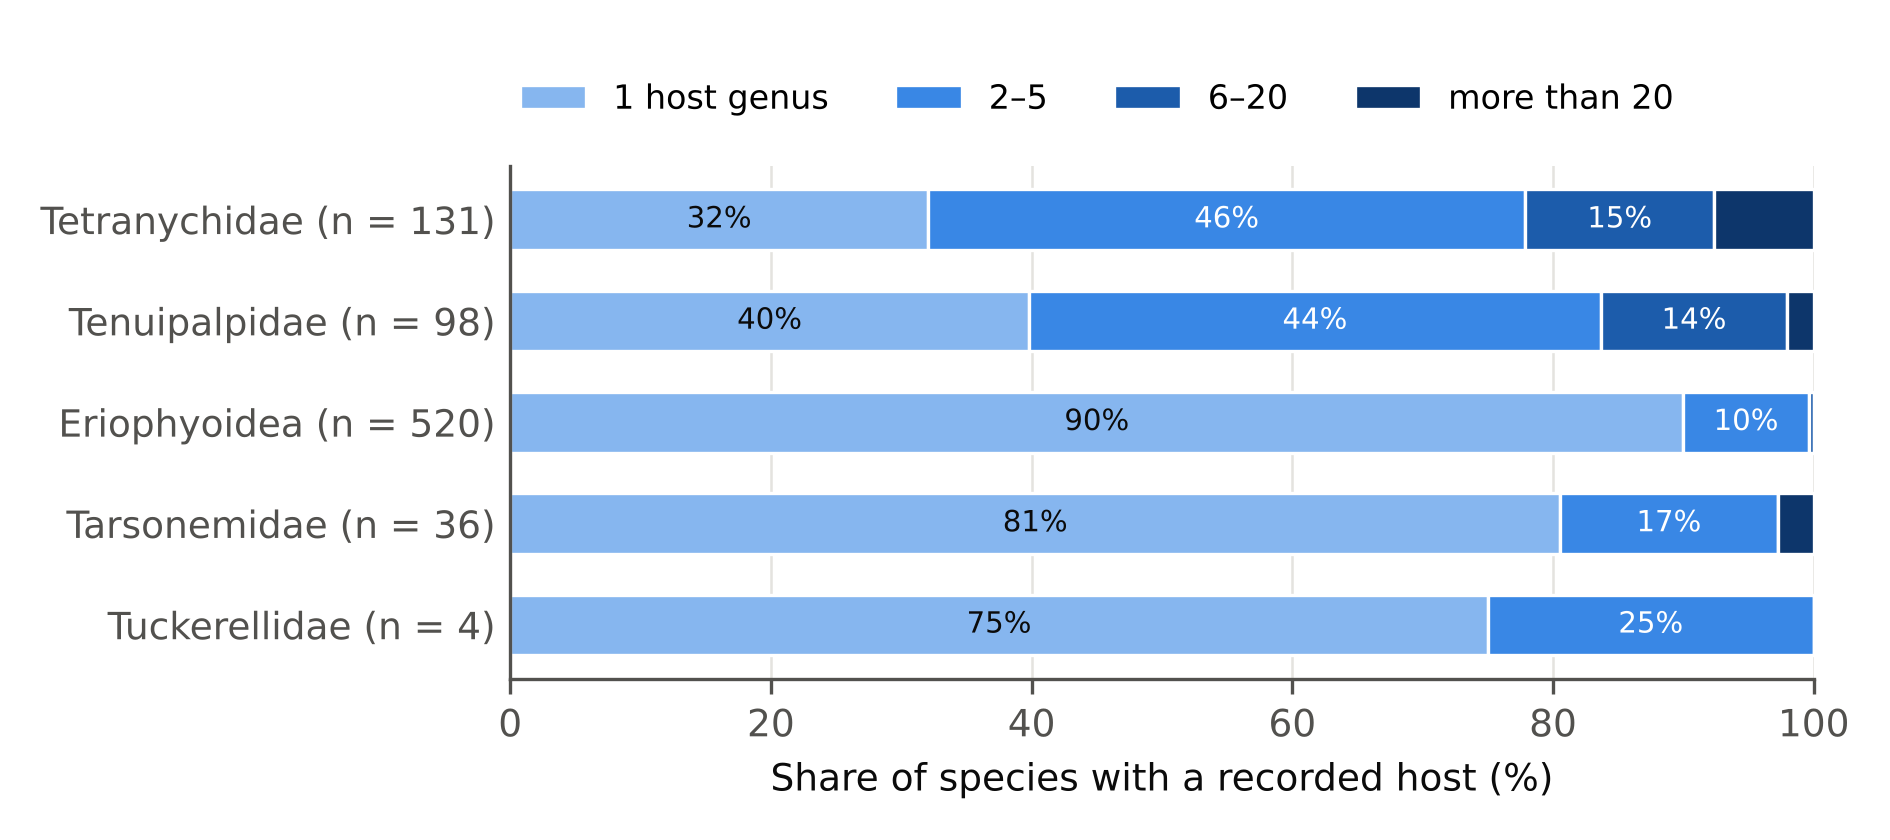
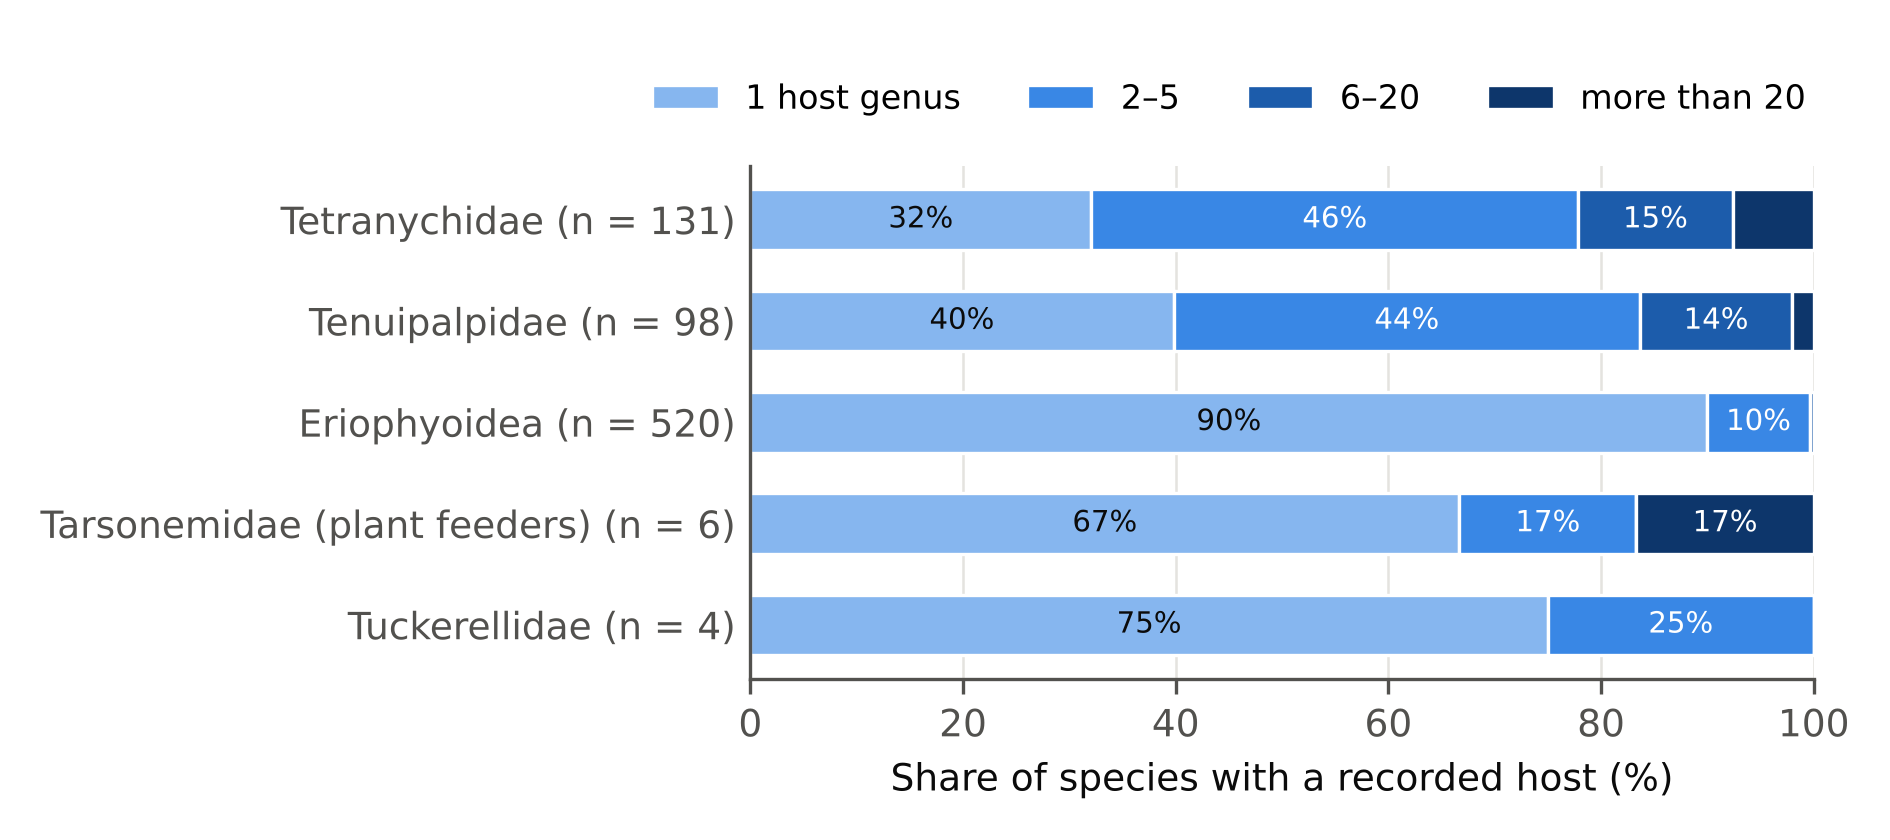
Editorial revision: plant-feeding classification, missing-data rules, year sensitivity
- Checklist pinned at india-agri-mite-coi d739a7a (Eotetranychus neoperplexus 1968).
- Host analyses use plant feeders only: the four plant-feeding families and the
  plant-feeding tarsonemid genera (Polyphagotarsonemus, Steneotarsonemus,
  Phytonemus). The other 35 tarsonemids are reported apart.
- Barcode tests: states with and without the 29 species with no state; host
  genera only among plant feeders with at least one host genus
  (link_barcode_tests.csv).
- Species not in the handbook split by year against its 2022 coverage.
- Decade counts with the low and high values if the other printed years were
  used (when_decade_year_sensitivity.csv).
- Fig. 3 and Fig. 4 redrawn for plant feeders.

Claude-Session: https://claude.ai/code/session_01EwTawd1XLMKrgnGKyjHHUU

diff --git a/scripts/analysis/analyse.py b/scripts/analysis/analyse.py
@@ -33,9 +33,25 @@ def write(name, rows, cols=None):
 
 
 GROUPS = ["Tetranychidae", "Tenuipalpidae", "Eriophyoidea", "Tarsonemidae", "Tuckerellidae", "Phytoseiidae"]
-PHYTOPHAGOUS = set(GROUPS) - {"Phytoseiidae"}
 sp = {r["species_id"]: r for r in read(ROOT / "data/raw/species_list.csv") if r["counted"] == "1"}
 group = {k: v["group"] for k, v in sp.items()}
+# Plant feeders: the four plant-feeding families and the plant-feeding genera of Tarsonemidae (Lindquist 1986).
+# Most other tarsonemid genera found on plants feed on fungi, algae or other microbes, or their food is not known
+# (Mondal et al. 2023), so they are not counted as plant feeders.
+PLANT_FEEDING_FAMILIES = {"Tetranychidae", "Tenuipalpidae", "Eriophyoidea", "Tuckerellidae"}
+PLANT_FEEDING_TARSONEMID_GENERA = {"Polyphagotarsonemus", "Steneotarsonemus", "Phytonemus"}
+PLANT_FEEDER = {s for s in sp if group[s] in PLANT_FEEDING_FAMILIES
+                or (group[s] == "Tarsonemidae" and sp[s]["genus"] in PLANT_FEEDING_TARSONEMID_GENERA)}
+
+
+def feeding_class(s):
+    if group[s] == "Tarsonemidae":
+        return "Tarsonemidae, plant-feeding genera" if s in PLANT_FEEDER else "Tarsonemidae, other genera"
+    return group[s]
+
+
+FEEDING_CLASSES = ["Tetranychidae", "Tenuipalpidae", "Eriophyoidea", "Tarsonemidae, plant-feeding genera",
+                   "Tuckerellidae", "Tarsonemidae, other genera", "Phytoseiidae"]
 summary = []          # (section, measure, value) for the findings table
 
 
@@ -114,6 +130,20 @@ ap = [r for r in comb if r["in_aicrp"] == "1"]
 note("where", "AICRP species x state pairs", len(ap))
 note("where", "AICRP pairs that are additions to the book", sum(1 for r in ap if r["book_status"] in ("new_state_for_a_book_species", "species_not_in_book")))
 note("where", "AICRP pairs where the book gives no state for the species", sum(1 for r in ap if r["book_status"] == "book_gives_no_state"))
+# Species with no account in the handbook, by year of description against its coverage (literature to 2022):
+# described after 2022 = later than the handbook; described in 2022 or earlier = within its coverage but not in it.
+nb = {r["species_id"] for r in comb if r["book_status"] == "species_not_in_book"}
+def _yr(s):
+    y = sp[s]["year"].strip()
+    return int(y) if re.fullmatch(r"\d{4}", y) else None
+nb_rows = [{"described": k, "species": n} for k, n in (
+    ("after 2022", sum(1 for s in nb if (_yr(s) or 0) > 2022)),
+    ("in 2022", sum(1 for s in nb if _yr(s) == 2022)),
+    ("before 2022", sum(1 for s in nb if _yr(s) is not None and _yr(s) < 2022)),
+    ("year not known", sum(1 for s in nb if _yr(s) is None)))]
+write("where_species_not_in_book_by_year.csv", nb_rows)
+for r in nb_rows:
+    note("where", f"species not in the handbook, described {r['described']}", r["species"])
 write("where_additions_by_group.csv",
       [{"group": g, "pairs": sum(1 for r in comb if group[r["species_id"]] == g),
         **{k: sum(1 for r in comb if group[r["species_id"]] == g and r["book_status"] == k) for k in
@@ -175,6 +205,22 @@ for g in GROUPS:
     ys = [int(sp[s]["year"]) for s in sp if group[s] == g and re.fullmatch(r"\d{4}", sp[s]["year"].strip())]
     if ys:
         note("when", f"median description year, {g}", int(statistics.median(ys)))
+# Sensitivity of the decade counts to the years that differ between sources
+# (data/review/checklist_years_that_differ_between_sources.csv, written by scripts/tools/check_years.py).
+alt = {}
+for r in read(ROOT / "data/review/checklist_years_that_differ_between_sources.csv"):
+    alt[r["species_id"]] = {int(x.split()[1]) for x in r["years_printed_by_sources"].split("; ")}
+base = {d: sum(dec[d].values()) for d in dec}
+sens = []
+for d in sorted(set(base) | {y // 10 * 10 for v in alt.values() for y in v}):
+    lo = base.get(d, 0) - sum(1 for s, v in alt.items() if s in sp and _yr(s) // 10 * 10 == d and any(y // 10 * 10 != d for y in v))
+    hi = base.get(d, 0) + sum(1 for s, v in alt.items() if s in sp and _yr(s) // 10 * 10 != d and any(y // 10 * 10 == d for y in v))
+    sens.append({"decade": f"{d}s", "described": base.get(d, 0), "lowest_if_other_years_used": lo, "highest_if_other_years_used": hi})
+write("when_decade_year_sensitivity.csv", sens)
+note("when", "species whose year differs by 3 or more years between sources", len(alt))
+note("when", "of these, species whose decade could change", sum(1 for s, v in alt.items() if len({y // 10 for y in v} | {_yr(s) // 10}) > 1))
+pk = max(sens, key=lambda r: r["described"])
+note("when", "peak decade range if other years used", f"{pk['decade']} {pk['lowest_if_other_years_used']}-{pk['highest_if_other_years_used']}")
 
 # ======================================================================= WHO
 # spelling variants and OCR damage in the authority strings: config/author_aliases.csv
@@ -272,9 +318,9 @@ def breadth(keep):
     for r in regional_hosts:
         if keep(r["source"]) and r["species_id"] in sp and r["host_rank_std"] in ("species", "genus"):
             gen[r["species_id"]].add(r["host_taxon_std"].split()[0])
-    ids = [s for s in sp if group[s] in PHYTOPHAGOUS and gen[s]]
+    ids = [s for s in PLANT_FEEDER if gen[s]]
     one = sum(1 for s in ids if len(gen[s]) == 1)
-    return {"phytophagous_species_with_host": len(ids), "one_host_genus": one, "share_one_host_genus": round(one / len(ids), 3),
+    return {"plant_feeding_species_with_host": len(ids), "one_host_genus": one, "share_one_host_genus": round(one / len(ids), 3),
             "more_than_20_genera": sum(1 for s in ids if len(gen[s]) > 20)}
 
 
@@ -285,8 +331,8 @@ write("hosts_sensitivity.csv", [
     {"host_layers_used": "all layers including the two national checklists", **breadth(lambda l: True)}])
 
 rows = []
-for g in GROUPS:
-    ids = [s for s in sp if group[s] == g]
+for g in FEEDING_CLASSES:
+    ids = [s for s in sp if feeding_class(s) == g]
     b = [len(host_pairs[s]) for s in ids]
     c = collections.Counter("none" if x == 0 else "1" if x == 1 else "2-5" if x <= 5 else "6-20" if x <= 20 else ">20" for x in b)
     with_host = [x for x in b if x]
@@ -295,19 +341,22 @@ for g in GROUPS:
                  "share_one_host_genus_of_those_with_hosts": round(c["1"] / len(with_host), 3) if with_host else "",
                  "median_host_genera": statistics.median(with_host) if with_host else ""})
 write("hosts_breadth_by_group.csv", rows)
-phy_ids = [s for s in sp if group[s] in PHYTOPHAGOUS]
+phy_ids = [s for s in sp if s in PLANT_FEEDER]
 ph_with = [s for s in phy_ids if host_pairs[s]]
-note("hosts", "phytophagous species (five families)", len(phy_ids))
-note("hosts", "phytophagous species with a host genus", len(ph_with))
+note("hosts", "plant-feeding species", len(phy_ids))
+note("hosts", "tarsonemid species of other feeding habit, left out of the host analysis", sum(1 for s in sp if feeding_class(s) == "Tarsonemidae, other genera"))
+note("hosts", "plant-feeding species with a host genus", len(ph_with))
 note("hosts", "of these, known from one host genus", f"{sum(1 for s in ph_with if len(host_pairs[s]) == 1)} ({round(sum(1 for s in ph_with if len(host_pairs[s]) == 1) / len(ph_with), 3)})")
-note("hosts", "phytophagous species with more than 20 host genera", sum(1 for s in ph_with if len(host_pairs[s]) > 20))
+note("hosts", "plant-feeding species with more than 20 host genera", sum(1 for s in ph_with if len(host_pairs[s]) > 20))
 
 crop_sp = collections.defaultdict(set)
 crop_pred = collections.defaultdict(set)
 genus_sp, genus_pred, genus_names = collections.defaultdict(set), collections.defaultdict(set), collections.defaultdict(collections.Counter)
 for (sid, taxon), layers in host_src.items():
-    (crop_sp if group[sid] in PHYTOPHAGOUS else crop_pred)[taxon].add(sid)
-    (genus_sp if group[sid] in PHYTOPHAGOUS else genus_pred)[taxon.split()[0]].add(sid)
+    if sid in PLANT_FEEDER:
+        crop_sp[taxon].add(sid); genus_sp[taxon.split()[0]].add(sid)
+    elif group[sid] == "Phytoseiidae":
+        crop_pred[taxon].add(sid); genus_pred[taxon.split()[0]].add(sid)
     genus_names[taxon.split()[0]][crop_type.get(taxon, ("", ""))[1]] += 1
 rows = []
 for g_, ids in sorted(genus_sp.items(), key=lambda x: (-len(x[1]), x[0]))[:40]:
@@ -334,7 +383,7 @@ for taxon, ids in sorted(crop_sp.items(), key=lambda x: -len(x[1]))[:40]:
 write("hosts_top_plants.csv", rows)
 ct_sp = collections.defaultdict(set)
 for (sid, taxon) in host_src:
-    if group[sid] in PHYTOPHAGOUS:
+    if sid in PLANT_FEEDER:
         ct_sp[crop_type.get(taxon, ("", ""))[0] or "not_assigned"].add(sid)
 write("hosts_by_crop_type.csv", [{"crop_type": k, "phytophagous_species": len(v)} for k, v in sorted(ct_sp.items(), key=lambda x: -len(x[1]))])
 
@@ -347,7 +396,7 @@ for taxon in KEY:
         rows.append({"host": taxon, "common_name": crop_type.get(taxon, ("", ""))[1], "mite": sp[sid]["species"], "group": group[sid],
                      "layers": ";".join(sorted(host_src[(sid, taxon)])), "n_layers": len(host_src[(sid, taxon)])})
 write("hosts_key_crops.csv", rows)
-note("hosts", "five host genera with most phytophagous mite species", "; ".join(f"{r['host_genus']} {r['phytophagous_species']}" for r in topg))
+note("hosts", "five host genera with most plant-feeding mite species", "; ".join(f"{r['host_genus']} {r['phytophagous_species']}" for r in topg))
 
 # ======================================================================= LINK TO PAPER 1
 cov = {r["species_id"]: r for r in read(ROOT / "data/raw/coverage_by_species.csv")}
@@ -364,9 +413,25 @@ write("link_species_records_vs_coi.csv", rows)
 bar = [r for r in rows if r["n_coi"] > 0]
 nob = [r for r in rows if r["n_coi"] == 0]
 note("link", "barcoded species (any COI)", len(bar))
-for k in ("n_states", "n_host_genera", "n_layers"):
-    u = stats.mannwhitneyu([r[k] for r in bar], [r[k] for r in nob], alternative="two-sided")
-    note("link", f"median {k}: barcoded vs not", f"{statistics.median([r[k] for r in bar])} vs {statistics.median([r[k] for r in nob])} (Mann-Whitney U={u.statistic:.0f}, P={u.pvalue:.2g})")
+# Missing-data rules: a species with no state record has n_states 0 (no record anywhere in the sources), tested with and
+# without such species; host genera are compared only among plant feeders with at least one recorded host genus,
+# because a zero elsewhere means that hosts were not extracted (Phytoseiidae) or not recorded.
+tests = []
+
+
+def mwu(label, a, b, k):
+    u = stats.mannwhitneyu([r[k] for r in a], [r[k] for r in b], alternative="two-sided")
+    tests.append({"comparison": label, "barcoded": len(a), "not_barcoded": len(b),
+                  "median_barcoded": statistics.median([r[k] for r in a]), "median_not_barcoded": statistics.median([r[k] for r in b]),
+                  "U": round(u.statistic), "P": f"{u.pvalue:.2g}"})
+    note("link", label, f"{tests[-1]['median_barcoded']} vs {tests[-1]['median_not_barcoded']} (n = {len(a)} and {len(b)}; Mann-Whitney U={u.statistic:.0f}, P={u.pvalue:.2g})")
+
+
+mwu("states recorded, all species", bar, nob, "n_states")
+mwu("states recorded, species with at least one state", [r for r in bar if r["n_states"]], [r for r in nob if r["n_states"]], "n_states")
+pf = [r for r in rows if r["species_id"] in PLANT_FEEDER and r["n_host_genera"] > 0]
+mwu("host genera, plant feeders with at least one host genus", [r for r in pf if r["n_coi"] > 0], [r for r in pf if r["n_coi"] == 0], "n_host_genera")
+mwu("sources, all species", bar, nob, "n_layers")
 cls_rows = []
 for label, lo, hi in (("0", 0, 0), ("1", 1, 1), ("2-3", 2, 3), ("4-9", 4, 9), ("10+", 10, 999)):
     ids = [r for r in rows if lo <= r["n_states"] <= hi]
@@ -379,6 +444,15 @@ for r in cls_rows:
     note("link", f"share barcoded, species from {r['states_recorded']} states", f"{r['barcoded']}/{r['species']} ({r['share_barcoded']})")
 rho = stats.spearmanr([r["n_states"] for r in rows], [1 if r["n_coi"] else 0 for r in rows])
 note("link", "Spearman rho, states recorded vs barcoded (0/1)", f"{rho.statistic:.3f} (P={rho.pvalue:.2g})")
+r1 = [r for r in rows if r["n_states"]]
+rho1 = stats.spearmanr([r["n_states"] for r in r1], [1 if r["n_coi"] else 0 for r in r1])
+note("link", "Spearman rho, species with at least one state", f"{rho1.statistic:.3f} (P={rho1.pvalue:.2g}, n = {len(r1)})")
+tests.append({"comparison": "Spearman rho, states vs barcoded, all species", "barcoded": len(bar), "not_barcoded": len(nob),
+              "median_barcoded": "", "median_not_barcoded": "", "U": round(rho.statistic, 3), "P": f"{rho.pvalue:.2g}"})
+tests.append({"comparison": "Spearman rho, states vs barcoded, species with at least one state", "barcoded": sum(1 for r in r1 if r["n_coi"]),
+              "not_barcoded": sum(1 for r in r1 if not r["n_coi"]), "median_barcoded": "", "median_not_barcoded": "",
+              "U": round(rho1.statistic, 3), "P": f"{rho1.pvalue:.2g}"})
+write("link_barcode_tests.csv", tests)
 
 write("findings_summary.csv", summary, ["section", "measure", "value"])
 for s in summary:

diff --git a/scripts/analysis/verify_numbers.py b/scripts/analysis/verify_numbers.py
@@ -107,7 +107,9 @@ for r in read("data/aicrp/aicrp_observations.csv"):
 for r in read("data/regional/regional_species_host.csv"):
     if r["source"] not in ("chalil2024", "mitra2025") and r["host_rank_std"] in ("species", "genus"):
         gen[r["species_id"]].add(r["host_taxon_std"].split()[0])
-phyto = [s for s in ids if grp[s] != "Phytoseiidae"]
+genus_of = {r["species_id"]: r["species"].split()[0] for r in checklist}
+phyto = [s for s in ids if grp[s] in ("Tetranychidae", "Tenuipalpidae", "Eriophyoidea", "Tuckerellidae")
+         or (grp[s] == "Tarsonemidae" and genus_of[s] in ("Polyphagotarsonemus", "Steneotarsonemus", "Phytonemus"))]
 with_host = [s for s in phyto if gen[s]]
 one = sum(1 for s in with_host if len(gen[s]) == 1)
 per_genus = collections.Counter(g for s in with_host for g in gen[s])
@@ -144,11 +146,11 @@ mine = {
     ("who", "five most frequent authors"): "; ".join(f"{n} {count[n]}" for n in five),
     ("who", "species with at least one of the top five authors"): f"{with_five} ({round(with_five / len(checklist), 3)})",
     ("who", "Mohanasundaram share of Eriophyoidea"): round(sum(1 for s in erio if "Mohanasundaram" in per_species[s]) / len(erio), 3),
-    ("hosts", "phytophagous species (five families)"): len(phyto),
-    ("hosts", "phytophagous species with a host genus"): len(with_host),
+    ("hosts", "plant-feeding species"): len(phyto),
+    ("hosts", "plant-feeding species with a host genus"): len(with_host),
     ("hosts", "of these, known from one host genus"): f"{one} ({round(one / len(with_host), 3)})",
-    ("hosts", "phytophagous species with more than 20 host genera"): sum(1 for s in with_host if len(gen[s]) > 20),
-    ("hosts", "five host genera with most phytophagous mite species"): "; ".join(f"{g} {n}" for g, n in top5g),
+    ("hosts", "plant-feeding species with more than 20 host genera"): sum(1 for s in with_host if len(gen[s]) > 20),
+    ("hosts", "five host genera with most plant-feeding mite species"): "; ".join(f"{g} {n}" for g, n in top5g),
     ("link", "barcoded species (any COI)"): sum(1 for s in ids if coi.get(s, 0) > 0),
     ("link", "share barcoded, species from 1 states"): f"{sum(1 for s in one_state if coi.get(s, 0) > 0)}/{len(one_state)} ({round(sum(1 for s in one_state if coi.get(s, 0) > 0) / len(one_state), 3)})",
     ("link", "share barcoded, species from 10+ states"): f"{sum(1 for s in ten if coi.get(s, 0) > 0)}/{len(ten)} ({round(sum(1 for s in ten if coi.get(s, 0) > 0) / len(ten), 3)})",

diff --git a/scripts/analysis/figures.py b/scripts/analysis/figures.py
@@ -75,10 +75,10 @@ italic_legend(ax, GROUPS, loc="upper left", fontsize=7.5, ncol=2)
 fig.tight_layout(); fig.savefig(F / "fig2_described_per_decade.png", dpi=300); plt.close(fig)
 
 # ---------------------------------------------------------------- Fig. 3 host breadth
-rows = [r for r in read("hosts_breadth_by_group.csv") if r["group"] != "Phytoseiidae"]
+rows = [r for r in read("hosts_breadth_by_group.csv") if r["group"] not in ("Phytoseiidae", "Tarsonemidae, other genera")]
 classes = [("one_host_genus", "1 host genus"), ("2_5", "2–5"), ("6_20", "6–20"), ("over_20", "more than 20")]
 fig, ax = plt.subplots(figsize=(6.3, 2.8))
-names = [f"{r['group']} (n = {int(r['species']) - int(r['no_host_genus'])})" for r in rows][::-1]
+names = [f"{r['group'].replace(', plant-feeding genera', ' (plant feeders)')} (n = {int(r['species']) - int(r['no_host_genus'])})" for r in rows][::-1]
 left = [0.0] * len(rows)
 for (col, lab), colr in zip(classes, RAMP):
     vals = []
@@ -113,7 +113,7 @@ for g in PHY:
     left = [a + b for a, b in zip(left, vals)]
 for i, v in enumerate(left):
     ax.text(v + 0.5, i, str(v), va="center", fontsize=7.5, color=INK2)
-ax.set_xlabel("Phytophagous mite species recorded on the genus"); grid(ax)
+ax.set_xlabel("Plant-feeding mite species recorded on the genus"); grid(ax)
 ax.tick_params(axis="y", length=0, labelsize=7.5)
 italic_legend(ax, [g for g in PHY if g != "Tuckerellidae"], loc="lower right", fontsize=8)
 fig.tight_layout(); fig.savefig(F / "fig4_top_host_genera.png", dpi=300); plt.close(fig)
